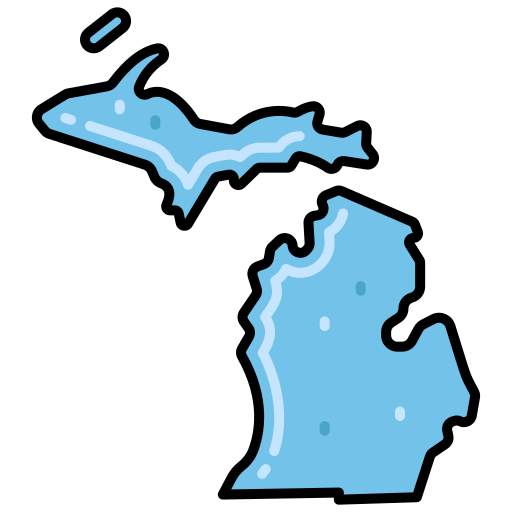
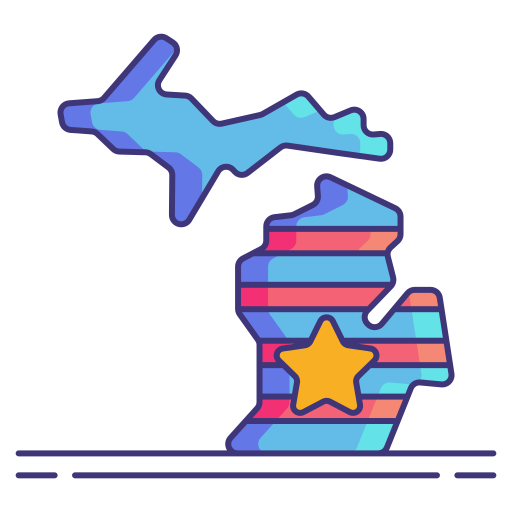
Schimbare zone

diff --git a/index.html b/index.html
@@ -83,7 +83,7 @@
 
         <li class="navbar-item">
           <a href="#zones" class="navbar-link" data-nav-link>
-            <span>Locations</span>
+            <span>Routes</span>
 
             <ion-icon name="chevron-forward"></ion-icon>
           </a>
@@ -578,11 +578,66 @@
         <div class="route-block">
           <h3 class="route-title">Ohio – Arkansas – Ohio</h3>
           <div class="route-cards">
-            <div class="zone-card small"><div class="card-icon"><img src="./assets/images/ohio.png" alt="Ohio"></div><h4 class="card-title">Ohio</h4></div>
+            <div class="zone-card small"><div class="card-icon"><img src="./assets/images/michigan.png" alt="Michigan"></div><h4 class="card-title">Ohio</h4></div>
             <div class="route-arrow">→</div>
             <div class="zone-card small"><div class="card-icon"><img src="./assets/images/arkansas.png" alt="Arkansas"></div><h4 class="card-title">Arkansas</h4></div>
             <div class="route-arrow">→</div>
-            <div class="zone-card small"><div class="card-icon"><img src="./assets/images/ohio.png" alt="Ohio"></div><h4 class="card-title">Ohio</h4></div>
+            <div class="zone-card small"><div class="card-icon"><img src="./assets/images/michigan.png" alt="Michigan"></div><h4 class="card-title">Ohio</h4></div>
+          </div>
+        </div>
+
+        <div class="route-block">
+          <h3 class="route-title">Indiana – Arkansas– Indiana</h3>
+          <div class="route-cards">
+            <div class="zone-card small"><div class="card-icon"><img src="./assets/images/michigan.png" alt="Michigan"></div><h4 class="card-title">Indiana</h4></div>
+            <div class="route-arrow">→</div>
+            <div class="zone-card small"><div class="card-icon"><img src="./assets/images/arkansas.png" alt="Arkansas"></div><h4 class="card-title">Arkansas</h4></div>
+            <div class="route-arrow">→</div>
+            <div class="zone-card small"><div class="card-icon"><img src="./assets/images/michigan.png" alt="Michigan"></div><h4 class="card-title">Indiana</h4></div>
+          </div>
+        </div>
+
+        <div class="route-block">
+          <h3 class="route-title">Illinois – Arkansas– Illinois</h3>
+          <div class="route-cards">
+            <div class="zone-card small"><div class="card-icon"><img src="./assets/images/michigan.png" alt="Michigan"></div><h4 class="card-title">Illinois</h4></div>
+            <div class="route-arrow">→</div>
+            <div class="zone-card small"><div class="card-icon"><img src="./assets/images/arkansas.png" alt="Arkansas"></div><h4 class="card-title">Arkansas</h4></div>
+            <div class="route-arrow">→</div>
+            <div class="zone-card small"><div class="card-icon"><img src="./assets/images/michigan.png" alt="Michigan"></div><h4 class="card-title">Illinois</h4></div>
+          </div>
+        </div>
+
+        <div class="route-block">
+          <h3 class="route-title">Michigan – Oklahoma – Michigan</h3>
+          <div class="route-cards">
+            <div class="zone-card small"><div class="card-icon"><img src="./assets/images/michigan.png" alt="Michigan"></div><h4 class="card-title">Michigan</h4></div>
+            <div class="route-arrow">→</div>
+            <div class="zone-card small"><div class="card-icon"><img src="./assets/images/arkansas.png" alt="Arkansas"></div><h4 class="card-title">Oklahoma</h4></div>
+            <div class="route-arrow">→</div>
+            <div class="zone-card small"><div class="card-icon"><img src="./assets/images/michigan.png" alt="Michigan"></div><h4 class="card-title">Michigan</h4></div>
+          </div>
+        </div>
+
+        <div class="route-block">
+          <h3 class="route-title">Ohio – Oklahoma – Ohio</h3>
+          <div class="route-cards">
+            <div class="zone-card small"><div class="card-icon"><img src="./assets/images/michigan.png" alt="Michigan"></div><h4 class="card-title">Ohio</h4></div>
+            <div class="route-arrow">→</div>
+            <div class="zone-card small"><div class="card-icon"><img src="./assets/images/arkansas.png" alt="Arkansas"></div><h4 class="card-title">Oklahoma</h4></div>
+            <div class="route-arrow">→</div>
+            <div class="zone-card small"><div class="card-icon"><img src="./assets/images/michigan.png" alt="Michigan"></div><h4 class="card-title">Ohio</h4></div>
+          </div>
+        </div>
+
+        <div class="route-block">
+          <h3 class="route-title">Indiana - Oklahoma - Indiana</h3>
+          <div class="route-cards">
+            <div class="zone-card small"><div class="card-icon"><img src="./assets/images/ohio.png" alt="Ohio"></div><h4 class="card-title">Indiana</h4></div>
+            <div class="route-arrow">→</div>
+            <div class="zone-card small"><div class="card-icon"><img src="./assets/images/arkansas.png" alt="Arkansas"></div><h4 class="card-title">Oklahoma</h4></div>
+            <div class="route-arrow">→</div>
+            <div class="zone-card small"><div class="card-icon"><img src="./assets/images/ohio.png" alt="Ohio"></div><h4 class="card-title">Indiana</h4></div>
           </div>
         </div>
       </div><!-- #extra-routes -->

diff --git a/assets/css/style.css b/assets/css/style.css
@@ -4310,7 +4310,7 @@ html, body {
     background: var(--white, #fff);
     box-shadow: 0 6px 18px rgba(0,0,0,0.06);
   }
-  #zones .route-title { font-size: 1.3rem; margin-bottom: 10px; color: var(--prussian-blue); text-align:left; }
+  #zones .route-title { font-size: 1.3rem; margin-bottom: 10px; color: var(--prussian-blue); text-align:center; }
   #zones .route-cards {
     display:flex;
     align-items:center;
@@ -4336,22 +4336,106 @@ html, body {
   #zones.routes-expanded #extra-routes { max-height: 2000px; }
 
   /* Button */
-  .routes-btn-wrapper { display:flex; justify-content:center; margin-top:18px; }
-  .routes-btn {
-    background: var(--dark-orange, #ff6600);
-    color: #fff;
-    border: none;
-    padding: 10px 22px;
-    border-radius: 8px;
-    font-weight:700;
-    cursor: pointer;
-    font-size: 1rem;
-  }
-  .routes-btn[aria-expanded="true"] { background: var(--prussian-blue, #123456); }
+ .routes-btn-wrapper {
+   display:flex;
+   justify-content:center;
+   margin-top:28px;   /* mai mult spațiu sus */
+ }
 
+ .routes-btn {
+   background: var(--dark-orange, #ff6600);
+   color: #fff;
+   border: none;
+   padding: 16px 36px;   /* mai lat și mai înalt */
+   border-radius: 12px;  /* colțuri mai rotunjite */
+   font-weight: 700;
+   cursor: pointer;
+   font-size: 1.2rem;    /* text mai mare */
+   box-shadow: 0 6px 18px rgba(0,0,0,0.15); /* umbră pentru evidențiere */
+   transition: background 0.3s ease, transform 0.2s ease;
+ }
+
+ .routes-btn:hover {
+   background: #e65c00;   /* nuanță mai închisă */
+   transform: translateY(-2px); /* efect de ridicare */
+ }
+
+ .routes-btn[aria-expanded="true"] {
+   background: var(--prussian-blue, #123456);
+ }
   /* Responsive */
   @media (max-width:720px) {
     #zones .zone-card.small { width:92px; padding:8px; }
     #zones .card-icon { width:52px; height:52px; }
     #zones .route-title { font-size:1.05rem; }
+  }
+  /* Card mare pentru rute */
+  #zones .route-block {
+    margin: 28px 0;
+    padding: 28px;
+    border-radius: 14px;
+    background: var(--white, #fff);
+    box-shadow: 0 8px 24px rgba(0,0,0,0.08);
+    text-align: center;
+    transition: transform 0.2s ease, box-shadow 0.2s ease;
+  }
+
+  #zones .route-block:hover {
+    transform: translateY(-4px);
+    box-shadow: 0 12px 30px rgba(0,0,0,0.12);
+  }
+
+  /* Titlu rută */
+  #zones .route-title {
+    font-size: 1.6rem;
+    margin-bottom: 20px;
+    color: var(--prussian-blue, #123456);
+    font-weight: 700;
+  }
+
+  /* Carduri mici (statele) */
+  #zones .route-cards {
+    display: flex;
+    align-items: center;
+    justify-content: center;
+    gap: 18px;
+    flex-wrap: wrap;
+  }
+
+  #zones .zone-card.small {
+    width: 150px;
+    padding: 16px;
+    border-radius: 12px;
+    background: #fdfdfd;
+    box-shadow: 0 6px 16px rgba(0,0,0,0.06);
+    transition: transform 0.2s ease;
+  }
+
+  #zones .zone-card.small:hover {
+    transform: scale(1.05);
+  }
+
+  #zones .card-icon {
+    width: 80px;
+    height: 80px;
+    margin: 0 auto 12px;
+  }
+
+  #zones .card-icon img {
+    width: 100%;
+    height: 100%;
+    object-fit: contain;
+  }
+
+  #zones .card-title {
+    font-size: 1.1rem;
+    font-weight: 600;
+    color: var(--onyx, #333);
+  }
+
+  /* Săgețile între carduri */
+  #zones .route-arrow {
+    font-size: 2rem;
+    color: var(--dark-orange, #ff6600);
+    font-weight: bold;
   }
